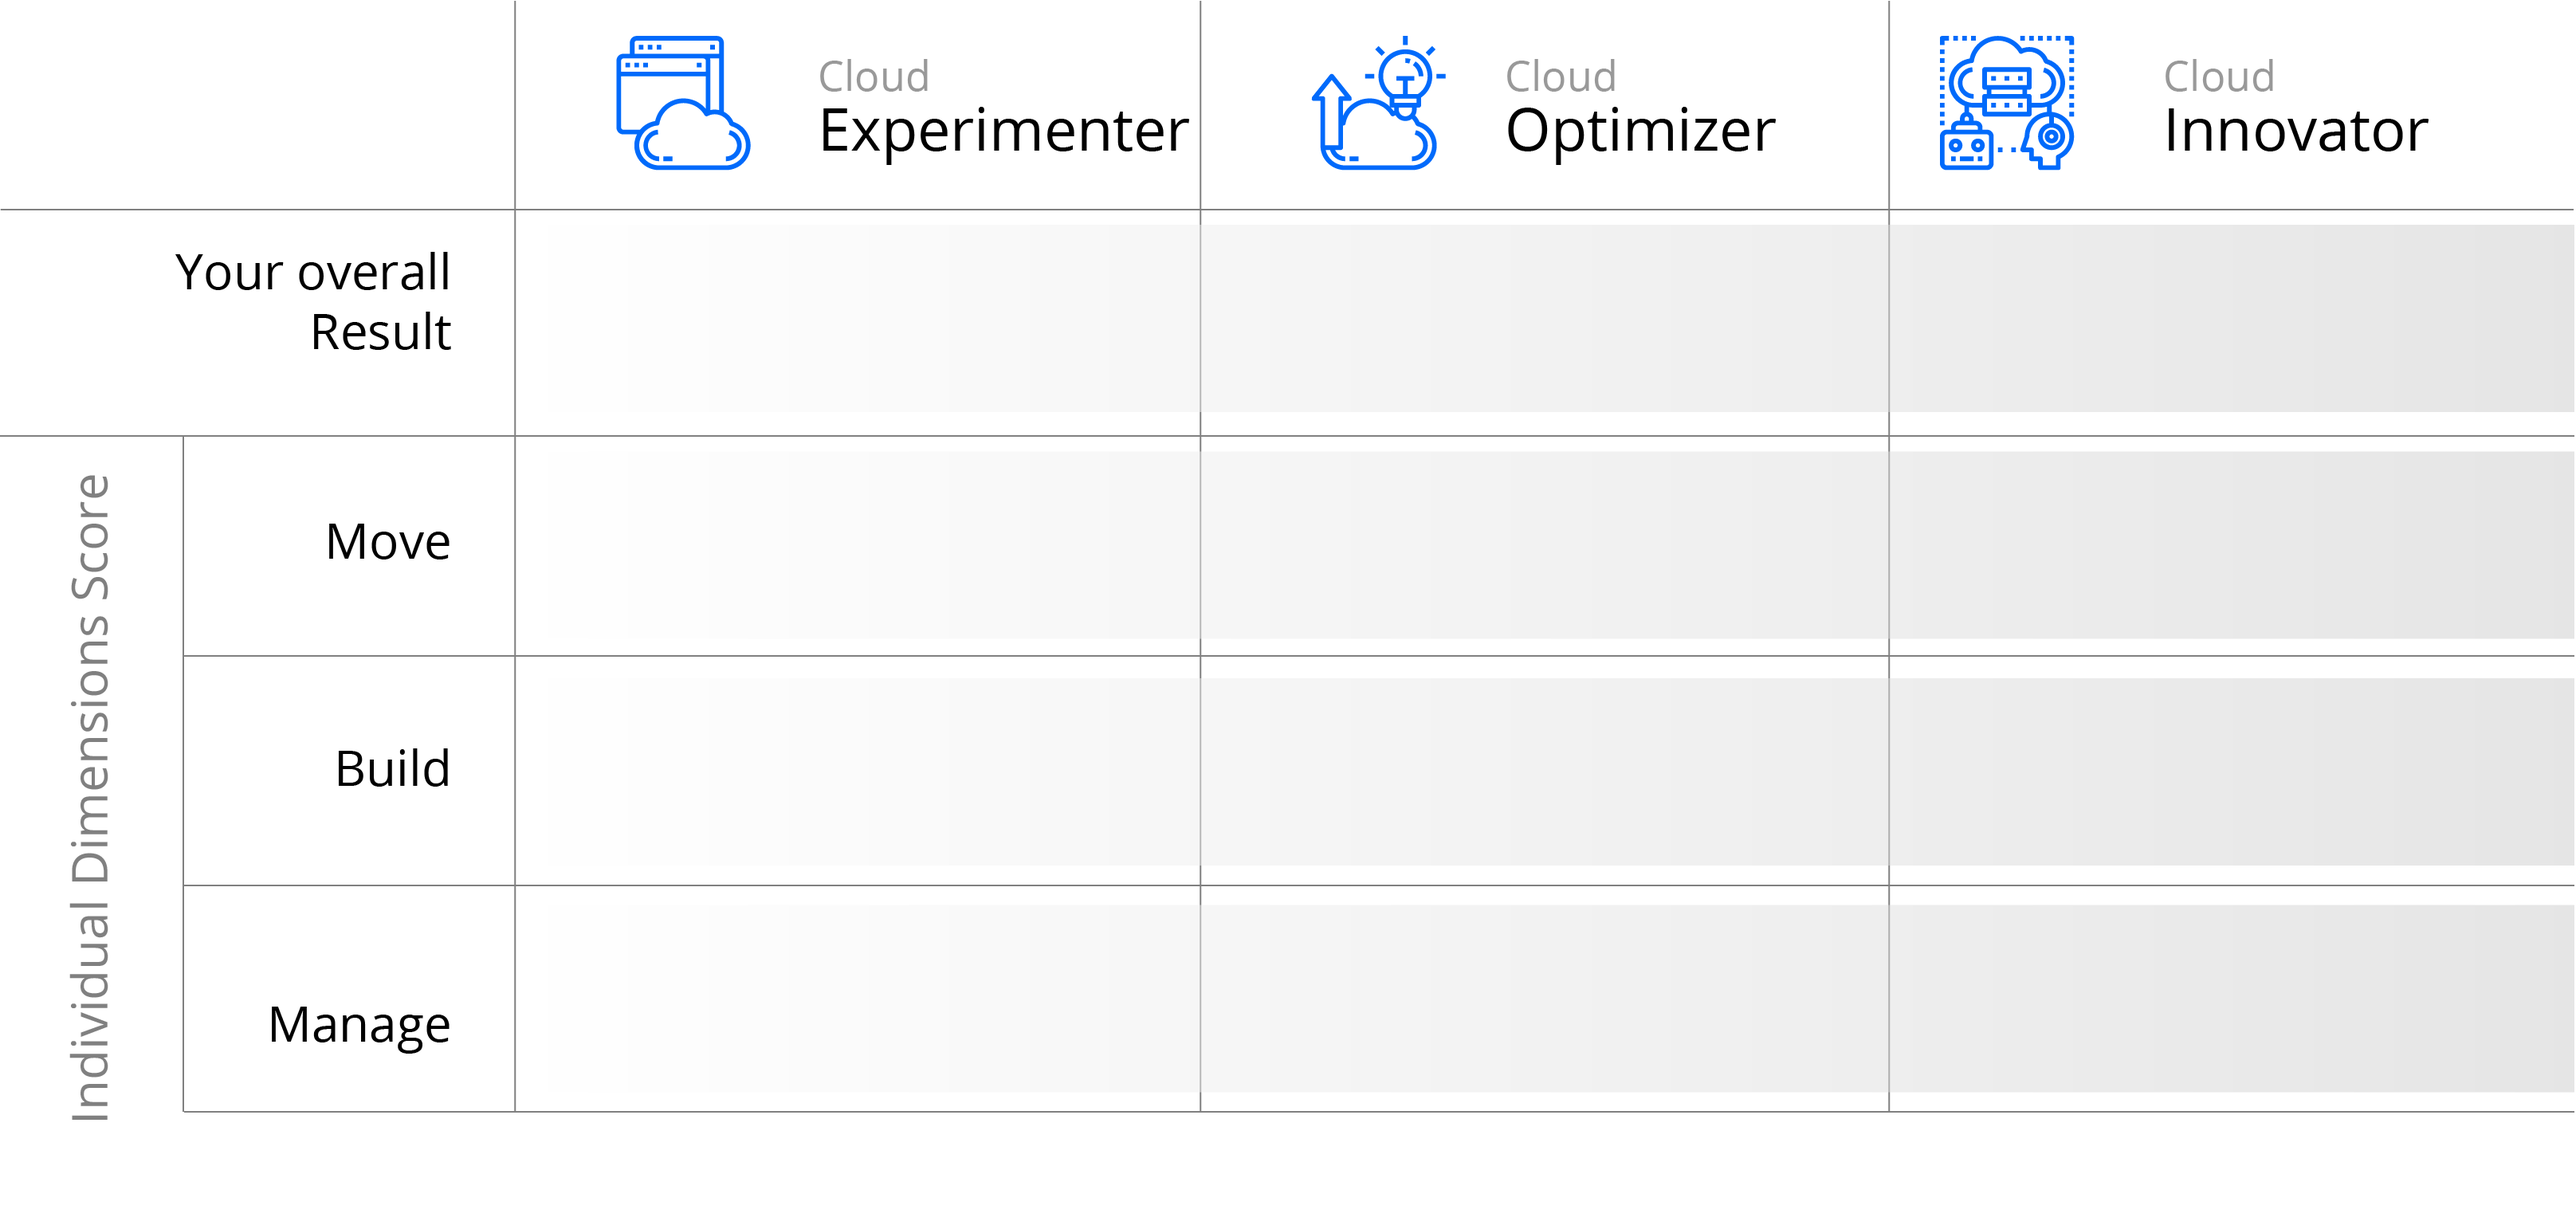
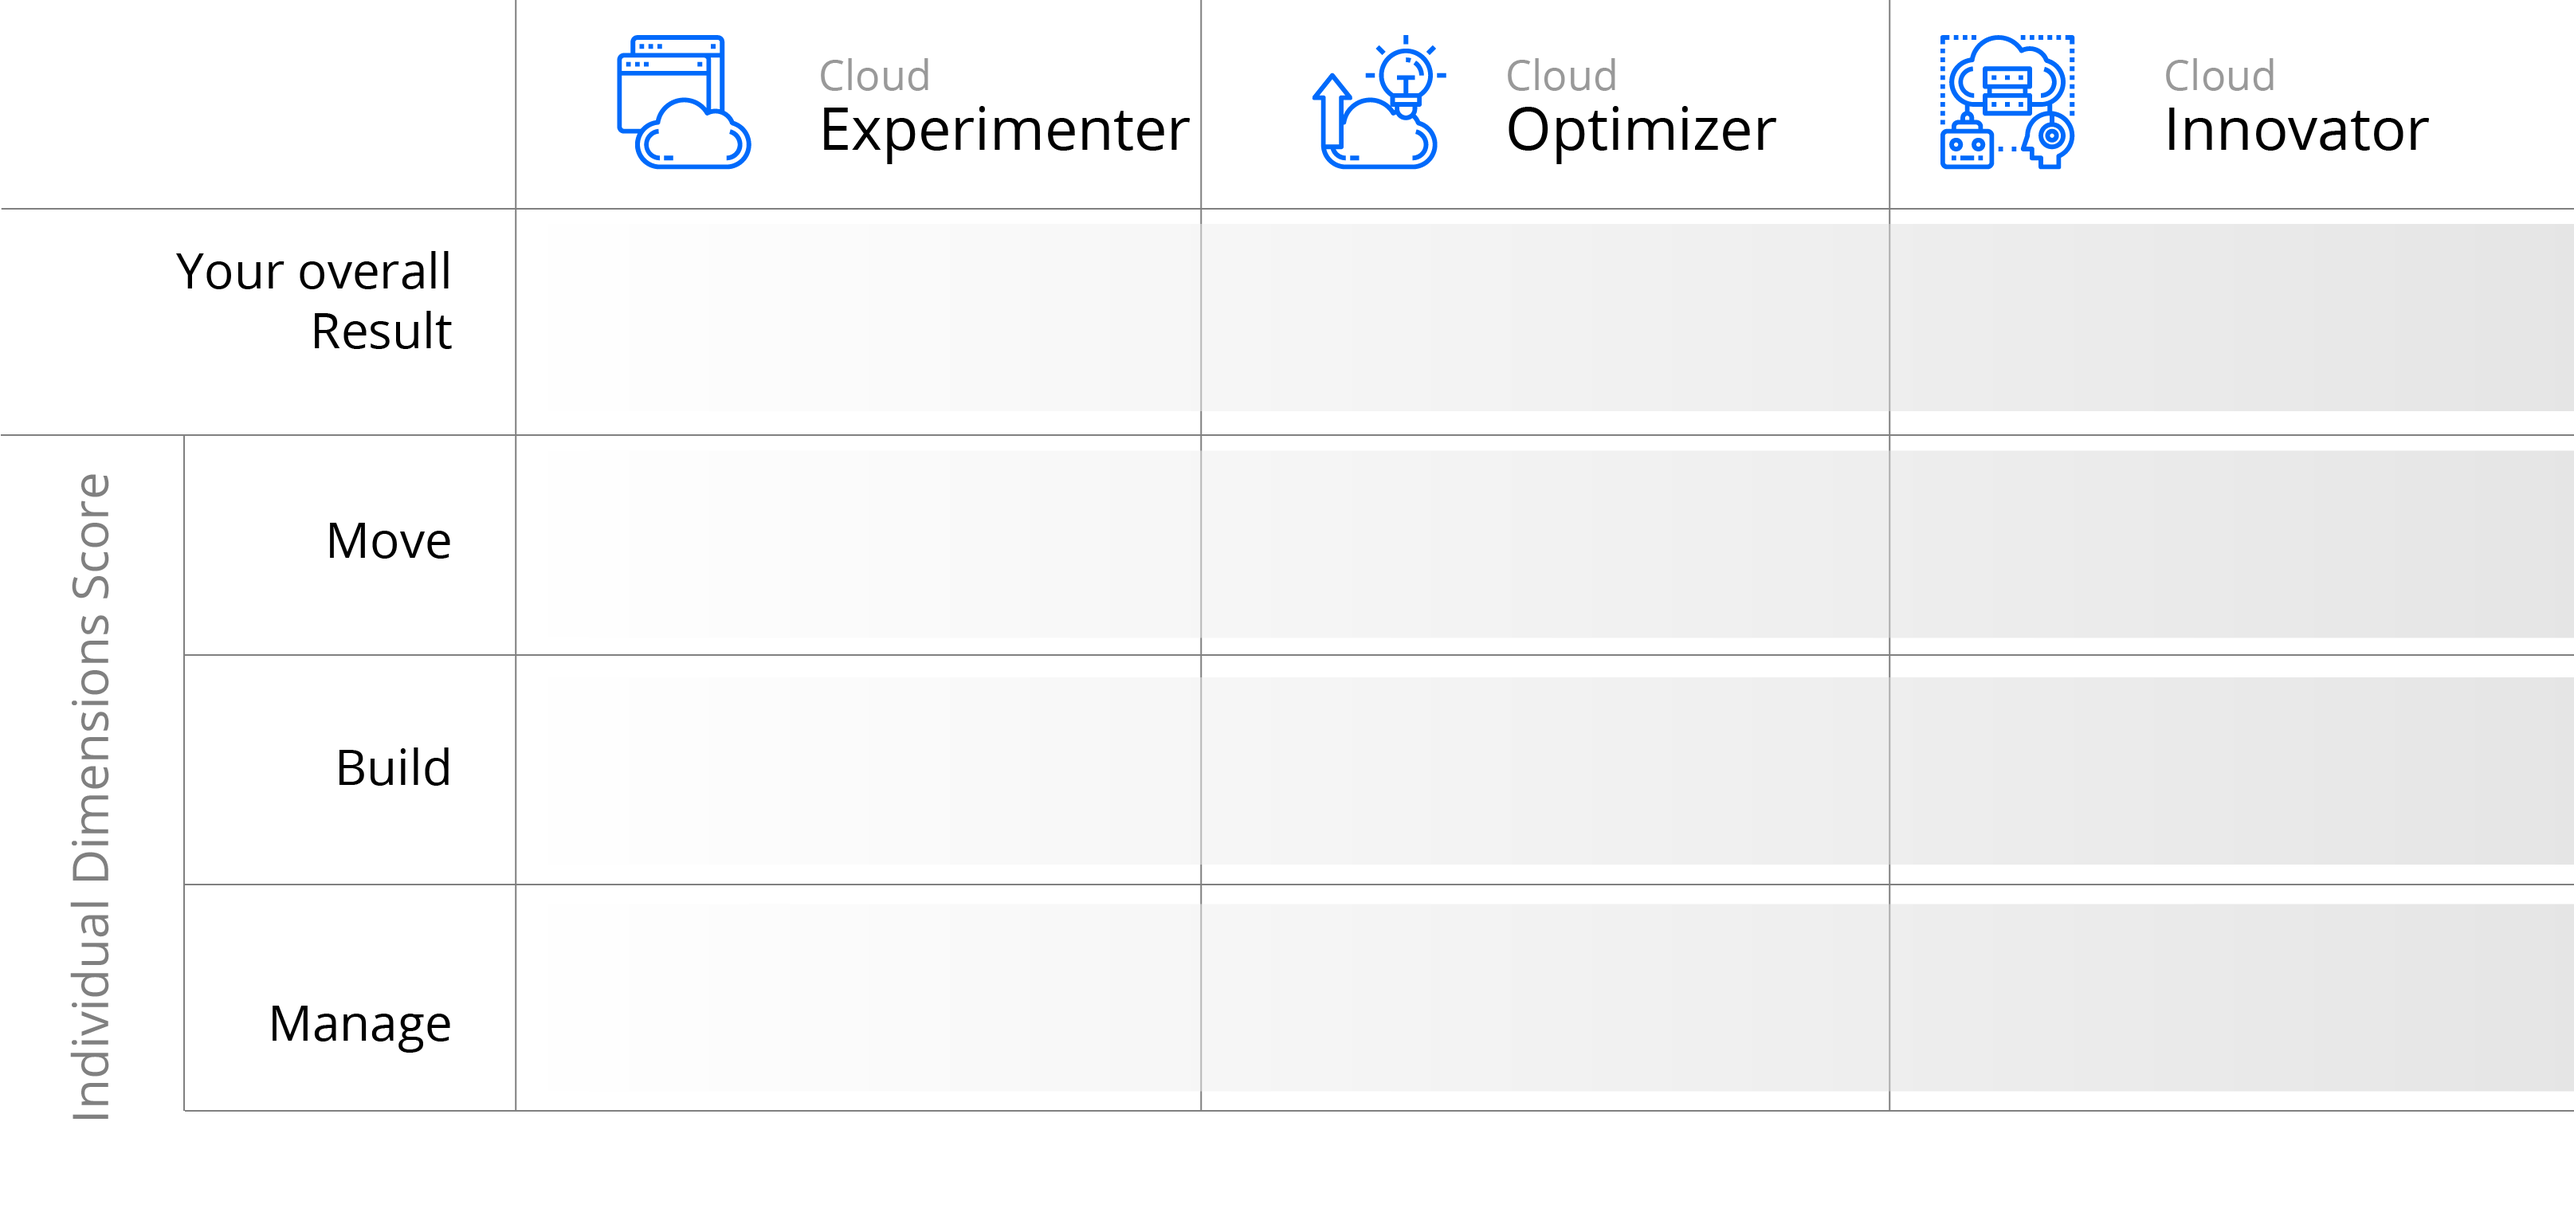
IBM

diff --git a/resources/lang/en/ibmcloud.php b/resources/lang/en/ibmcloud.php
@@ -214,7 +214,7 @@ return array(
                 This group is characterized by considerable, but incoherent use of cloud. At least some cloud-native technologies have been adopted, and selected applications moved to the cloud, but there is no complete application modernization road map in place, nor set processes for managing workloads across multiple clouds.
             </p>
         </div>
-        <div class="my-5 relative w-full border" style="height:400px; background: url(:url) no-repeat; background-size:cover">
+        <div class="my-5 relative" style="width:190mm;height:90mm; background: url(:url) no-repeat; background-size:cover">
             <div class="bg-ibm-blue absolute" style="width: :overall; height: 10mm; top:15mm; left:33mm;"></div>
             <div class="bg-black absolute" style="width: :move; height: 10mm; top:29mm; left:33mm;"></div>
             <div class="bg-grey-dark absolute" style="width: :build; height: 10mm; top:43mm; left:33mm;"></div>
